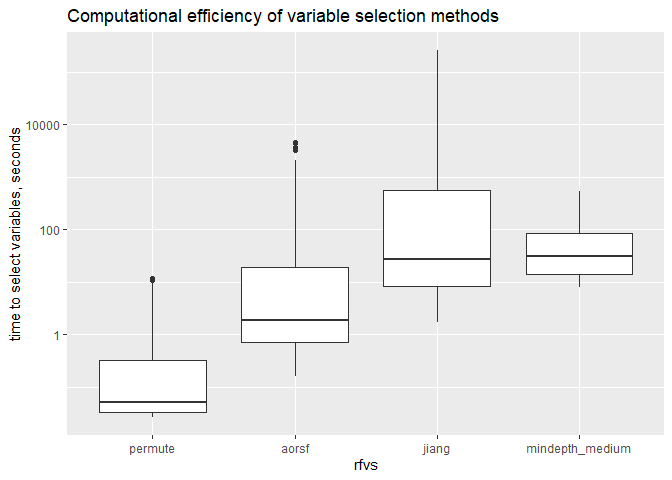
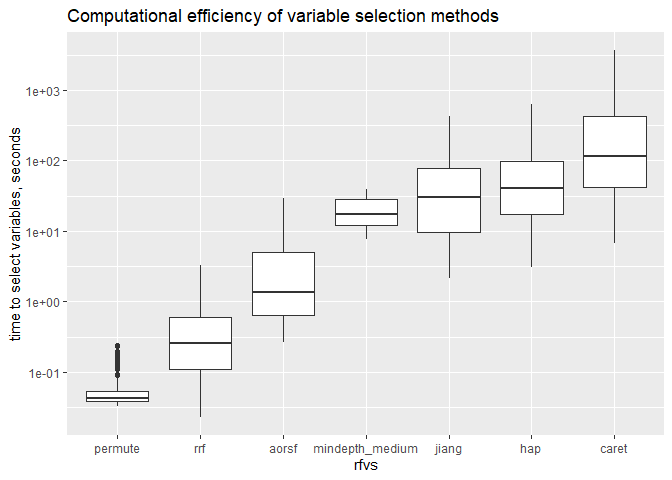
adding some new rfvs options

diff --git a/README.md b/README.md
@@ -27,7 +27,7 @@ in step 2.
 We assume that better variable selection leads to better prediction
 accuracy. Results from the experiment are below.
 
-<img src="README_files/figure-gfm/unnamed-chunk-3-1.png" width="1564" />
+<img src="README_files/figure-gfm/unnamed-chunk-3-1.png" width="1590" />
 
 Similar results, but using mean and standard error
 
@@ -42,9 +42,9 @@ Similar results, but using mean and standard error
 1.  Variable selection method `jiang` has consistently high prediction
     accuracy but scales poorly to large datasets in terms of
     computational efficiency. E.g., the max time that this method
-    required was 2 days, 23 hours, 40 minutes, 9 seconds
+    required was 7 minutes, 1 seconds
 
 2.  Variable selection method `aorsf` has very high prediction accuracy
     when the downstream model is an oblique random forest, and does not
     become computationally intractable with larger data. E.g., the max
-    time this method required was 1 hour, 18 minutes, 26 seconds
+    time this method required was 29 seconds
